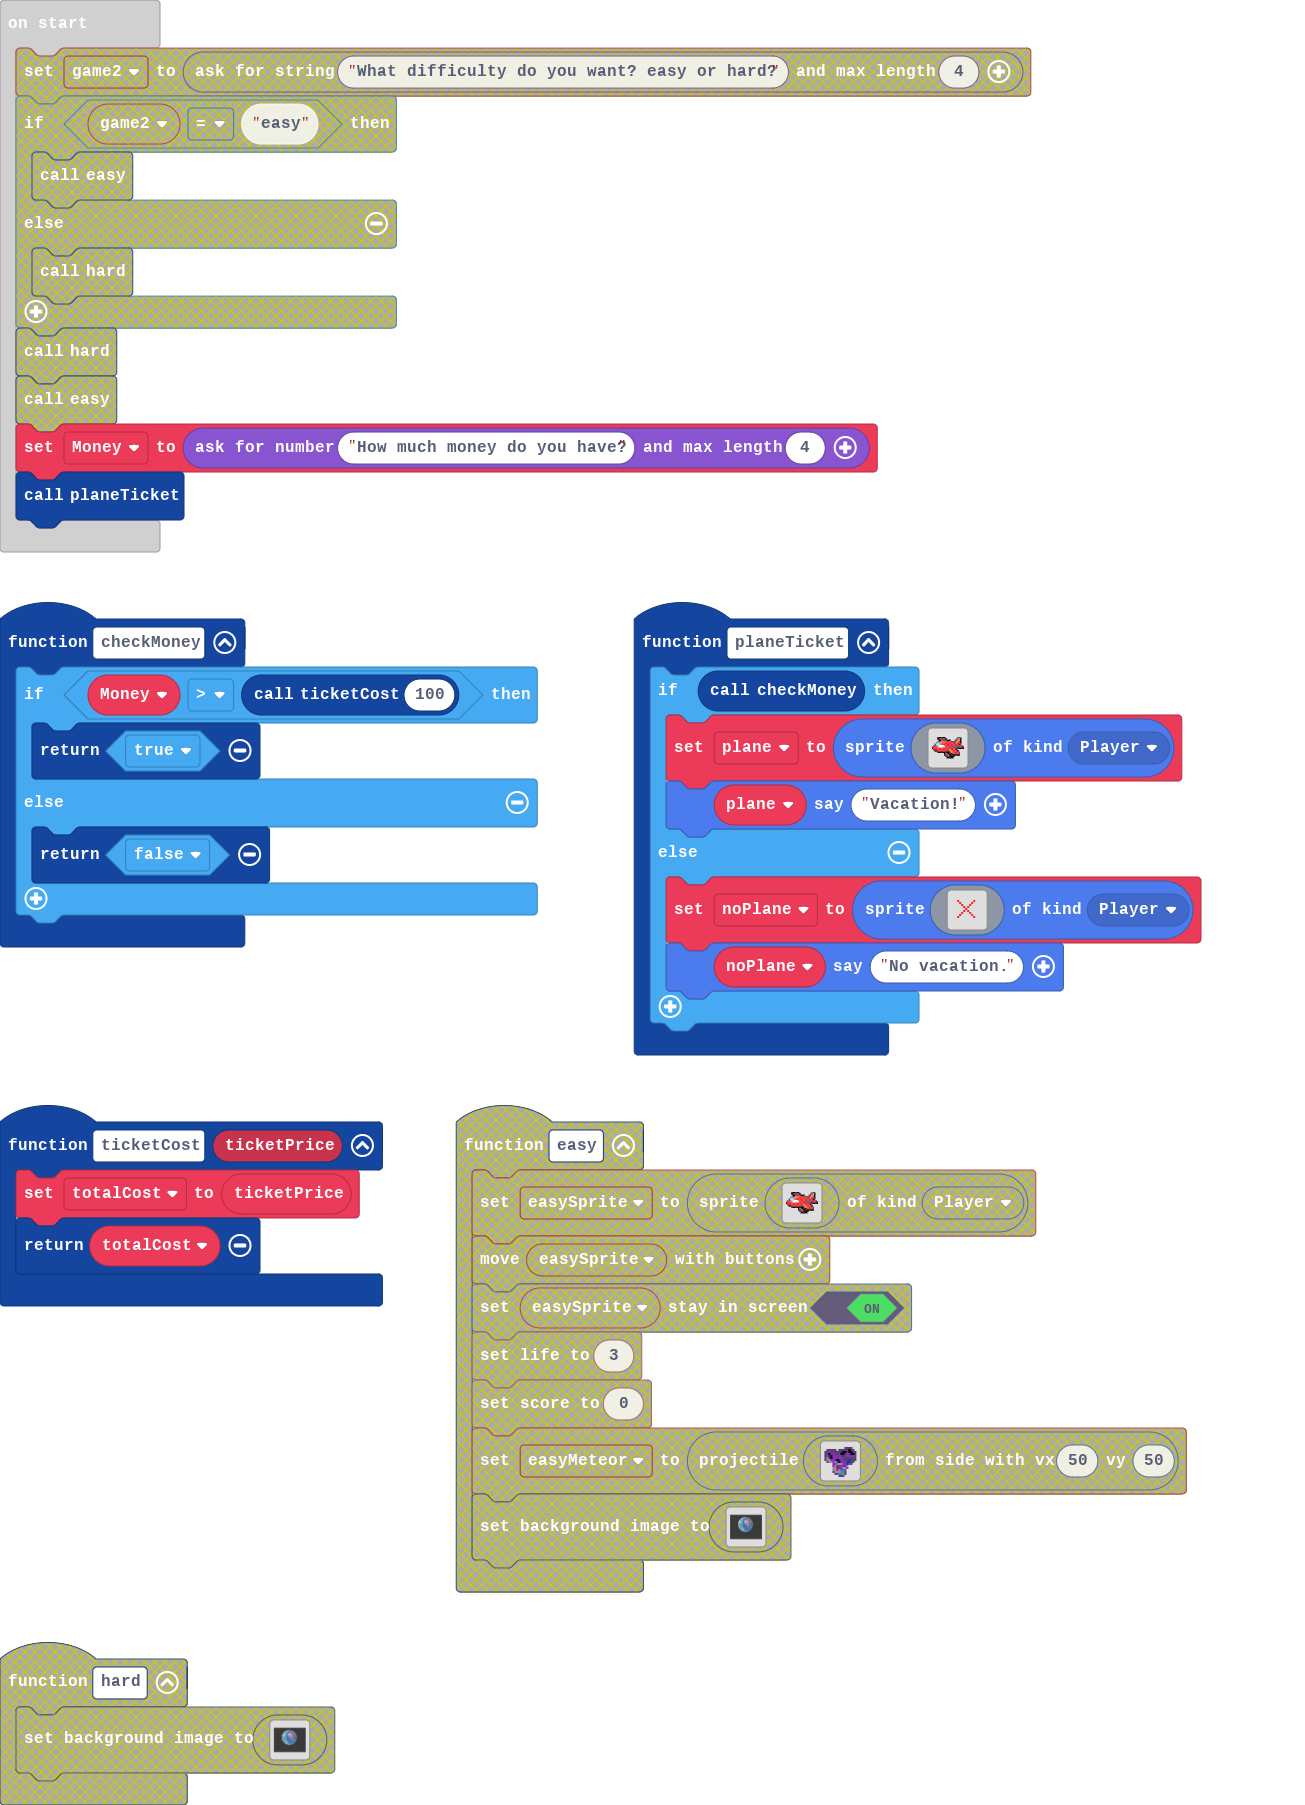
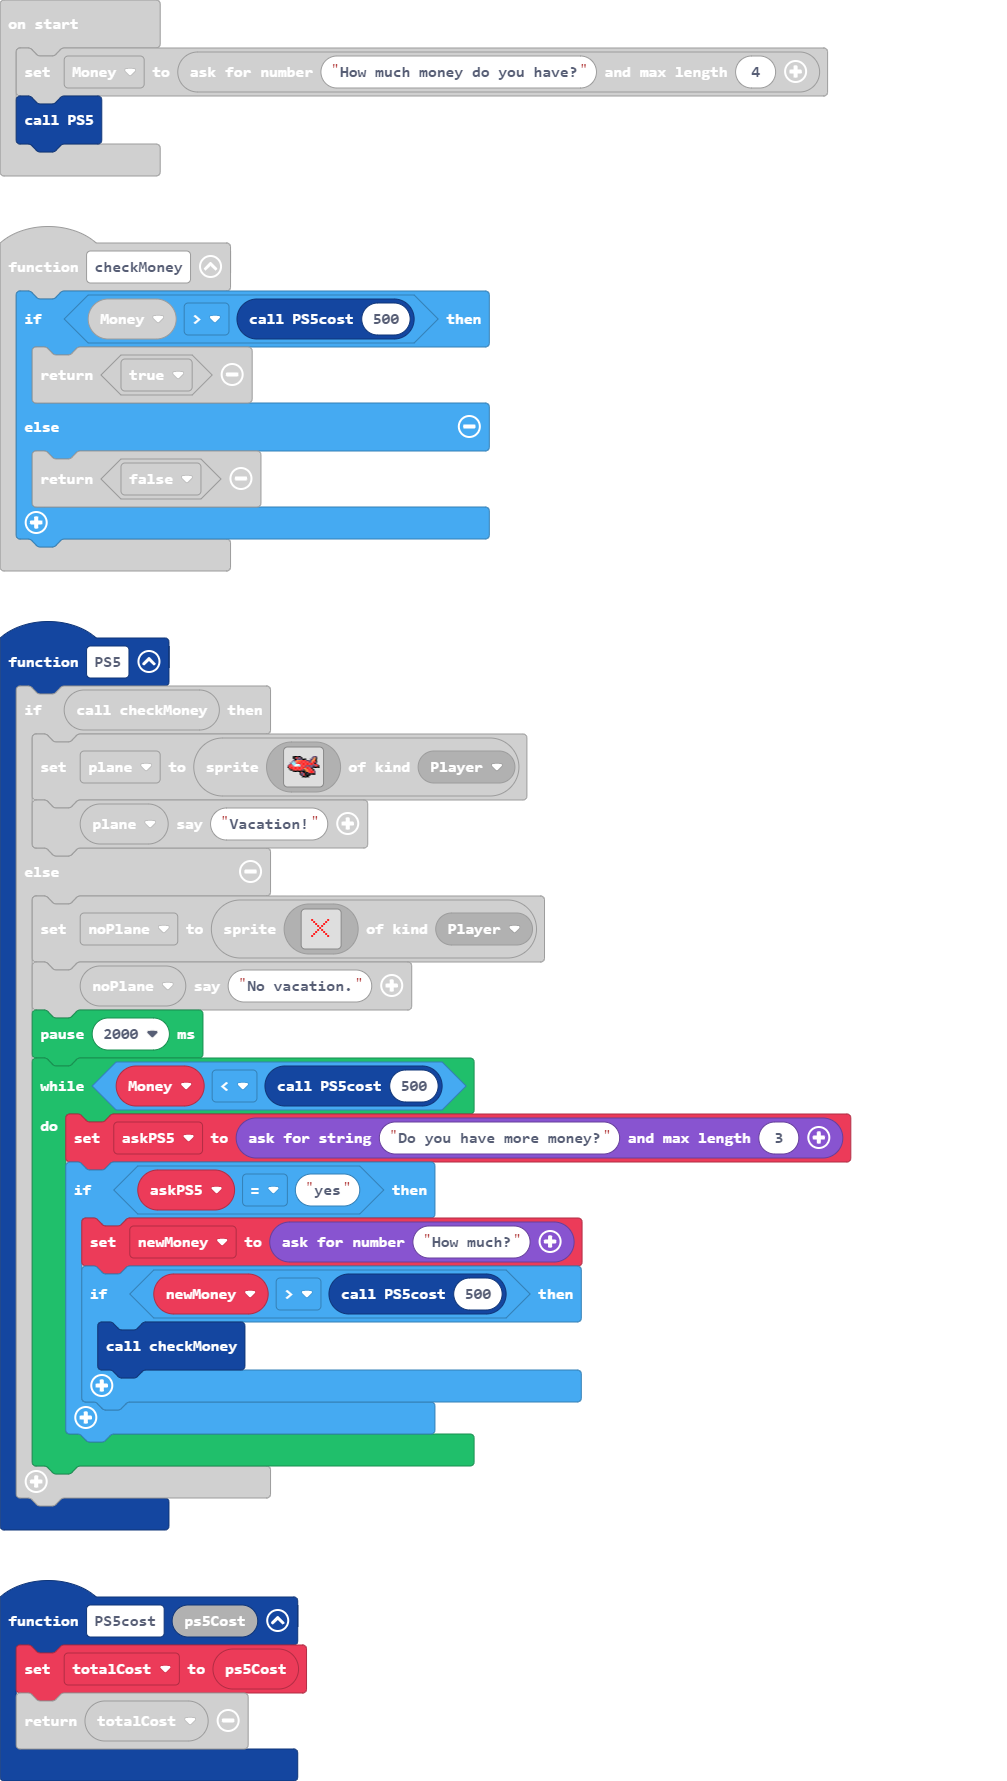
Update main.blocks, main.ts

diff --git a/main.ts b/main.ts
@@ -1,4 +1,15 @@
-function planeTicket () {
+function PS5cost (ps5Cost: number) {
+    totalCost = ps5Cost
+    return totalCost
+}
+function checkMoney () {
+    if (Money > PS5cost(500)) {
+        return true
+    } else {
+        return false
+    }
+}
+function PS5 () {
     if (checkMoney()) {
         plane = sprites.create(img`
             ....ffffff.........ccc..
@@ -39,22 +50,23 @@ function planeTicket () {
             . . . . . . . . . . . . . . . . 
             `, SpriteKind.Player)
         noPlane.sayText("No vacation.")
+        pause(2000)
+        while (Money < PS5cost(500)) {
+            askPS5 = game.askForString("Do you have more money?", 3)
+            if (askPS5 == "yes") {
+                newMoney = game.askForNumber("How much?")
+                if (newMoney > PS5cost(500)) {
+                    checkMoney()
+                }
+            }
+        }
     }
 }
-function ticketCost (ticketPrice: number) {
-    totalCost = ticketPrice
-    return totalCost
-}
-function checkMoney () {
-    if (Money > ticketCost(100)) {
-        return true
-    } else {
-        return false
-    }
-}
-let totalCost = 0
+let newMoney = 0
+let askPS5 = ""
 let noPlane: Sprite = null
 let plane: Sprite = null
+let totalCost = 0
 let Money = 0
 Money = game.askForNumber("How much money do you have?", 4)
-planeTicket()
+PS5()
